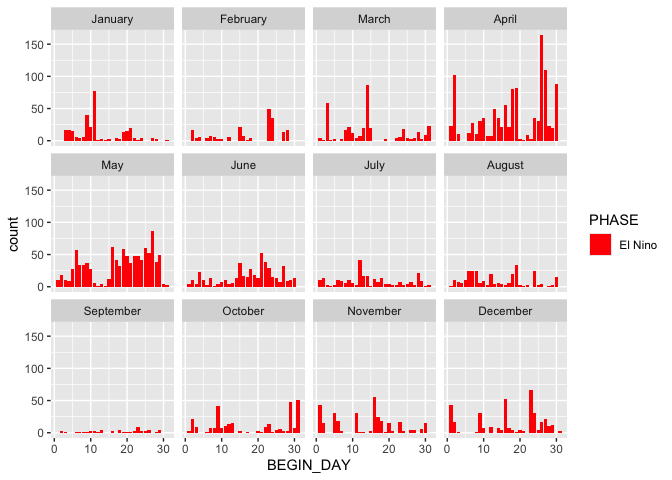
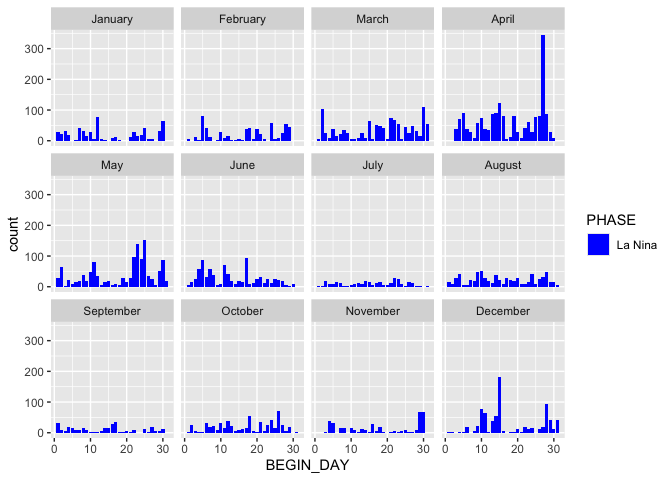
consistent colors

diff --git a/README.md b/README.md
@@ -296,28 +296,6 @@ included the corresponding ENSO value and phase.
 masterData <- masterData |> left_join(nino3.4 |> select(nino3.4, BEGIN_YEARMONTH, PHASE), by = "BEGIN_YEARMONTH")
 ```
 
-``` r
-str(masterData)
-```
-
-    ## tibble [26,050 × 16] (S3: tbl_df/tbl/data.frame)
-    ##  $ BEGIN_YEARMONTH: num [1:26050] 200706 200704 200704 200710 200705 ...
-    ##  $ BEGIN_DAY      : num [1:26050] 1 15 15 22 15 24 13 13 4 13 ...
-    ##  $ STATE          : chr [1:26050] "FLORIDA" "FLORIDA" "FLORIDA" "MISSISSIPPI" ...
-    ##  $ YEAR           : num [1:26050] 2007 2007 2007 2007 2007 ...
-    ##  $ MONTH_NAME     : Factor w/ 12 levels "January","February",..: 6 4 4 10 5 6 2 2 6 2 ...
-    ##  $ EVENT_TYPE     : chr [1:26050] "Tornado" "Tornado" "Tornado" "Tornado" ...
-    ##  $ BEGIN_DATE_TIME: chr [1:26050] "01-JUN-07 11:55:00" "15-APR-07 06:15:00" "15-APR-07 09:10:00" "22-OCT-07 16:54:00" ...
-    ##  $ END_DATE_TIME  : chr [1:26050] "01-JUN-07 11:56:00" "15-APR-07 06:15:00" "15-APR-07 09:10:00" "22-OCT-07 16:59:00" ...
-    ##  $ DAMAGE_PROPERTY: chr [1:26050] "20.00K" NA NA "180.00K" ...
-    ##  $ TOR_F_SCALE    : chr [1:26050] "EF0" "EF2" "EF1" "EF1" ...
-    ##  $ TOR_LENGTH     : num [1:26050] 0.55 1.5 0.2 3.47 0.15 ...
-    ##  $ TOR_WIDTH      : num [1:26050] 30 300 50 150 30 30 200 60 200 40 ...
-    ##  $ BEGIN_LAT      : num [1:26050] 24.7 30.5 29.7 33.4 40 ...
-    ##  $ BEGIN_LON      : num [1:26050] -81.5 -82.2 -81.2 -90.5 -83.8 ...
-    ##  $ nino3.4        : num [1:26050] -0.35 -0.32 -0.32 -1.39 -0.47 -0.35 0.13 0.13 -0.35 0.13 ...
-    ##  $ PHASE          : Factor w/ 3 levels "El Nino","La Nina",..: 3 3 3 2 3 3 3 3 3 3 ...
-
 #### Variables
 
 - BEGIN_YEARMONTH (num): The year and month that the event began
@@ -369,7 +347,7 @@ trend |> ggplot(aes(x = YEAR, y = count)) +
   scale_x_continuous(breaks = unique(masterData$YEAR), minor_breaks = NULL)
 ```
 
-![](README_files/figure-gfm/unnamed-chunk-10-1.png)<!-- -->
+![](README_files/figure-gfm/unnamed-chunk-9-1.png)<!-- -->
 
 This time series shows the number of tornadoes since 2007. This graph
 shows a semi-periodic pattern, where it is common for a high to be
@@ -384,7 +362,7 @@ masterData |>
   facet_wrap(~MONTH_NAME)
 ```
 
-![](README_files/figure-gfm/unnamed-chunk-11-1.png)<!-- -->
+![](README_files/figure-gfm/unnamed-chunk-10-1.png)<!-- -->
 
 This graph displays the daily tornado count throughout the year. It
 shows that tornado activity typically peaks between April and June. In
@@ -404,7 +382,7 @@ masterData |>
   scale_fill_manual(values = c("El Nino" = "red"))
 ```
 
-![](README_files/figure-gfm/unnamed-chunk-12-1.png)<!-- -->
+![](README_files/figure-gfm/unnamed-chunk-11-1.png)<!-- -->
 
 This graph displays the daily tornado count throughout the year, limited
 to the El Nino phase, showing that tornado activity peaks in April and
@@ -421,7 +399,7 @@ masterData |>
   scale_fill_manual(values = c("La Nina" = "blue"))
 ```
 
-![](README_files/figure-gfm/unnamed-chunk-13-1.png)<!-- -->
+![](README_files/figure-gfm/unnamed-chunk-12-1.png)<!-- -->
 
 This graph displays the daily tornado count throughout the year, limited
 to the La Nina phase, showing that tornado activity shows an extended
@@ -438,7 +416,7 @@ masterData |>
   scale_fill_manual(values = c("Neutral" = "grey"))
 ```
 
-![](README_files/figure-gfm/unnamed-chunk-14-1.png)<!-- -->
+![](README_files/figure-gfm/unnamed-chunk-13-1.png)<!-- -->
 
 This graph displays the daily tornado count throughout the year, limited
 to the Neutral phase. Similar to La Nina years, tornado activity during
@@ -463,7 +441,7 @@ tornado_map |>
   facet_wrap(~PHASE)
 ```
 
-![](README_files/figure-gfm/unnamed-chunk-16-1.png)<!-- -->
+![](README_files/figure-gfm/unnamed-chunk-15-1.png)<!-- -->
 
 The following choropleth map of the United States shows the distribution
 of tornado activity, where the shade of the state represents the number
@@ -516,7 +494,7 @@ masterData |>
   stat_summary(fun = mean, geom = "point", shape = 20, size = 3, color = "red")
 ```
 
-![](README_files/figure-gfm/unnamed-chunk-18-1.png)<!-- -->
+![](README_files/figure-gfm/unnamed-chunk-17-1.png)<!-- -->
 
 This graph displays the distribution of the logarithm-transformed
 property damage for each ENSO phase, with the red dots representing the
@@ -544,10 +522,11 @@ tornado_ranks |>
   filter(TOR_F_SCALE != "EFU") |>
   ggplot(aes(x = TOR_F_SCALE, y = count, fill = PHASE)) +
   geom_bar(stat = "identity") +
-  facet_wrap(~PHASE)
+  facet_wrap(~PHASE) +
+  scale_fill_manual(values = c("El Nino" = "red", "La Nina" = "blue", "Neutral" = "grey"))
 ```
 
-![](README_files/figure-gfm/unnamed-chunk-19-1.png)<!-- -->
+![](README_files/figure-gfm/unnamed-chunk-18-1.png)<!-- -->
 
 Another indicator of a tornado’s strength is its EF rating, which is
 based on observed damage such as uprooted trees, destroyed roofs, etc.
@@ -568,10 +547,11 @@ tornadoes. In contrast, El Nino is likelier to have weaker ones.
 ``` r
 masterData |> ggplot(aes(x = TOR_LENGTH, y = TOR_WIDTH, color = PHASE)) +
   geom_point()+
-  facet_wrap(~PHASE)
+  facet_wrap(~PHASE) +
+  scale_color_manual(values = c("El Nino" = "red", "La Nina" = "blue", "Neutral" = "grey"))
 ```
 
-![](README_files/figure-gfm/unnamed-chunk-20-1.png)<!-- -->
+![](README_files/figure-gfm/unnamed-chunk-19-1.png)<!-- -->
 
 The final graph is a scatter plot displaying tornado width on the y-axis
 and path length on the x-axis, with each point representing an
